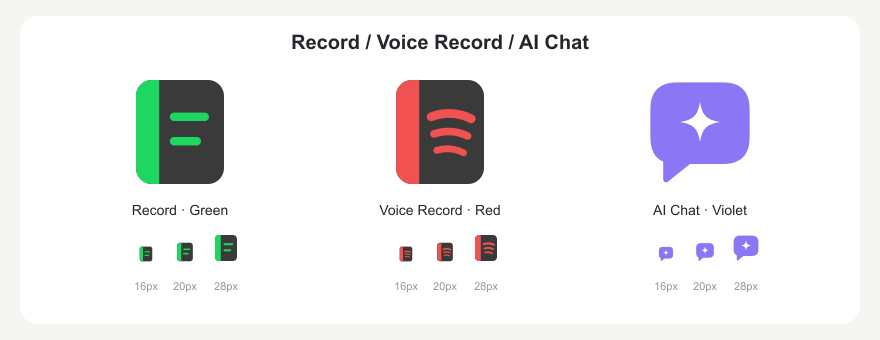
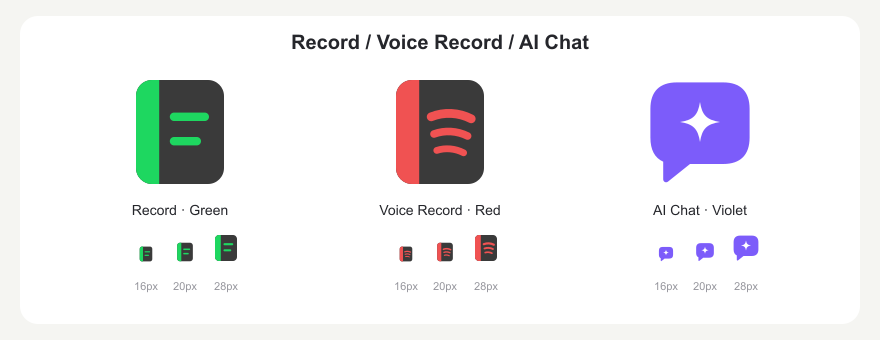
design: deepen AI conversation violet (#124)

Changed region(s): [[0.7364, 0.2353, 0.8591, 0.5294], [0.7364, 0.6765, 0.8591, 0.7647]]

diff --git a/docs/design/record-ai-chat-icons-20261013.html b/docs/design/record-ai-chat-icons-20261013.html
@@ -181,44 +181,44 @@
 
 <span>Record · 粉色</span></div></article><article><div class="hero"><svg xmlns="http://www.w3.org/2000/svg" width="112" height="112" viewBox="0 0 28 28" fill="none">
   <title>AI 对话</title>
-  <!-- Original conversation silhouette; violet matches the DSH image/video palette. -->
-  <path d="M8.2 1.6H19.8C24.12 1.6 26.4 3.88 26.4 8.2V15.4C26.4 19.72 24.12 22 19.8 22H11.5L6 26.4C5.5 26.8 4.8 26.46 4.8 25.82V21.42C2.66 20.48 1.6 18.44 1.6 15.4V8.2C1.6 3.88 3.88 1.6 8.2 1.6Z" fill="#8B76F6"/>
+  <!-- Original conversation silhouette; a slightly deeper, more saturated violet. -->
+  <path d="M8.2 1.6H19.8C24.12 1.6 26.4 3.88 26.4 8.2V15.4C26.4 19.72 24.12 22 19.8 22H11.5L6 26.4C5.5 26.8 4.8 26.46 4.8 25.82V21.42C2.66 20.48 1.6 18.44 1.6 15.4V8.2C1.6 3.88 3.88 1.6 8.2 1.6Z" fill="#7C5CFA"/>
   <path d="M14 6.5C14.5 9.8 15.7 11 19 11.5C15.7 12 14.5 13.2 14 16.5C13.5 13.2 12.3 12 9 11.5C12.3 11 13.5 9.8 14 6.5Z" fill="#FFF"/>
 </svg>
 </div><h2>AI 对话</h2><p>紫色气泡，白色星芒</p><div class="sizes"><span><svg xmlns="http://www.w3.org/2000/svg" width="16" height="16" viewBox="0 0 28 28" fill="none">
   <title>AI 对话</title>
-  <!-- Original conversation silhouette; violet matches the DSH image/video palette. -->
-  <path d="M8.2 1.6H19.8C24.12 1.6 26.4 3.88 26.4 8.2V15.4C26.4 19.72 24.12 22 19.8 22H11.5L6 26.4C5.5 26.8 4.8 26.46 4.8 25.82V21.42C2.66 20.48 1.6 18.44 1.6 15.4V8.2C1.6 3.88 3.88 1.6 8.2 1.6Z" fill="#8B76F6"/>
+  <!-- Original conversation silhouette; a slightly deeper, more saturated violet. -->
+  <path d="M8.2 1.6H19.8C24.12 1.6 26.4 3.88 26.4 8.2V15.4C26.4 19.72 24.12 22 19.8 22H11.5L6 26.4C5.5 26.8 4.8 26.46 4.8 25.82V21.42C2.66 20.48 1.6 18.44 1.6 15.4V8.2C1.6 3.88 3.88 1.6 8.2 1.6Z" fill="#7C5CFA"/>
   <path d="M14 6.5C14.5 9.8 15.7 11 19 11.5C15.7 12 14.5 13.2 14 16.5C13.5 13.2 12.3 12 9 11.5C12.3 11 13.5 9.8 14 6.5Z" fill="#FFF"/>
 </svg>
 <small>16px</small></span><span><svg xmlns="http://www.w3.org/2000/svg" width="20" height="20" viewBox="0 0 28 28" fill="none">
   <title>AI 对话</title>
-  <!-- Original conversation silhouette; violet matches the DSH image/video palette. -->
-  <path d="M8.2 1.6H19.8C24.12 1.6 26.4 3.88 26.4 8.2V15.4C26.4 19.72 24.12 22 19.8 22H11.5L6 26.4C5.5 26.8 4.8 26.46 4.8 25.82V21.42C2.66 20.48 1.6 18.44 1.6 15.4V8.2C1.6 3.88 3.88 1.6 8.2 1.6Z" fill="#8B76F6"/>
+  <!-- Original conversation silhouette; a slightly deeper, more saturated violet. -->
+  <path d="M8.2 1.6H19.8C24.12 1.6 26.4 3.88 26.4 8.2V15.4C26.4 19.72 24.12 22 19.8 22H11.5L6 26.4C5.5 26.8 4.8 26.46 4.8 25.82V21.42C2.66 20.48 1.6 18.44 1.6 15.4V8.2C1.6 3.88 3.88 1.6 8.2 1.6Z" fill="#7C5CFA"/>
   <path d="M14 6.5C14.5 9.8 15.7 11 19 11.5C15.7 12 14.5 13.2 14 16.5C13.5 13.2 12.3 12 9 11.5C12.3 11 13.5 9.8 14 6.5Z" fill="#FFF"/>
 </svg>
 <small>20px</small></span><span><svg xmlns="http://www.w3.org/2000/svg" width="28" height="28" viewBox="0 0 28 28" fill="none">
   <title>AI 对话</title>
-  <!-- Original conversation silhouette; violet matches the DSH image/video palette. -->
-  <path d="M8.2 1.6H19.8C24.12 1.6 26.4 3.88 26.4 8.2V15.4C26.4 19.72 24.12 22 19.8 22H11.5L6 26.4C5.5 26.8 4.8 26.46 4.8 25.82V21.42C2.66 20.48 1.6 18.44 1.6 15.4V8.2C1.6 3.88 3.88 1.6 8.2 1.6Z" fill="#8B76F6"/>
+  <!-- Original conversation silhouette; a slightly deeper, more saturated violet. -->
+  <path d="M8.2 1.6H19.8C24.12 1.6 26.4 3.88 26.4 8.2V15.4C26.4 19.72 24.12 22 19.8 22H11.5L6 26.4C5.5 26.8 4.8 26.46 4.8 25.82V21.42C2.66 20.48 1.6 18.44 1.6 15.4V8.2C1.6 3.88 3.88 1.6 8.2 1.6Z" fill="#7C5CFA"/>
   <path d="M14 6.5C14.5 9.8 15.7 11 19 11.5C15.7 12 14.5 13.2 14 16.5C13.5 13.2 12.3 12 9 11.5C12.3 11 13.5 9.8 14 6.5Z" fill="#FFF"/>
 </svg>
 <small>28px</small></span><span><svg xmlns="http://www.w3.org/2000/svg" width="32" height="32" viewBox="0 0 28 28" fill="none">
   <title>AI 对话</title>
-  <!-- Original conversation silhouette; violet matches the DSH image/video palette. -->
-  <path d="M8.2 1.6H19.8C24.12 1.6 26.4 3.88 26.4 8.2V15.4C26.4 19.72 24.12 22 19.8 22H11.5L6 26.4C5.5 26.8 4.8 26.46 4.8 25.82V21.42C2.66 20.48 1.6 18.44 1.6 15.4V8.2C1.6 3.88 3.88 1.6 8.2 1.6Z" fill="#8B76F6"/>
+  <!-- Original conversation silhouette; a slightly deeper, more saturated violet. -->
+  <path d="M8.2 1.6H19.8C24.12 1.6 26.4 3.88 26.4 8.2V15.4C26.4 19.72 24.12 22 19.8 22H11.5L6 26.4C5.5 26.8 4.8 26.46 4.8 25.82V21.42C2.66 20.48 1.6 18.44 1.6 15.4V8.2C1.6 3.88 3.88 1.6 8.2 1.6Z" fill="#7C5CFA"/>
   <path d="M14 6.5C14.5 9.8 15.7 11 19 11.5C15.7 12 14.5 13.2 14 16.5C13.5 13.2 12.3 12 9 11.5C12.3 11 13.5 9.8 14 6.5Z" fill="#FFF"/>
 </svg>
 <small>32px</small></span></div><div class="tab"><svg xmlns="http://www.w3.org/2000/svg" width="16" height="16" viewBox="0 0 28 28" fill="none">
   <title>AI 对话</title>
-  <!-- Original conversation silhouette; violet matches the DSH image/video palette. -->
-  <path d="M8.2 1.6H19.8C24.12 1.6 26.4 3.88 26.4 8.2V15.4C26.4 19.72 24.12 22 19.8 22H11.5L6 26.4C5.5 26.8 4.8 26.46 4.8 25.82V21.42C2.66 20.48 1.6 18.44 1.6 15.4V8.2C1.6 3.88 3.88 1.6 8.2 1.6Z" fill="#8B76F6"/>
+  <!-- Original conversation silhouette; a slightly deeper, more saturated violet. -->
+  <path d="M8.2 1.6H19.8C24.12 1.6 26.4 3.88 26.4 8.2V15.4C26.4 19.72 24.12 22 19.8 22H11.5L6 26.4C5.5 26.8 4.8 26.46 4.8 25.82V21.42C2.66 20.48 1.6 18.44 1.6 15.4V8.2C1.6 3.88 3.88 1.6 8.2 1.6Z" fill="#7C5CFA"/>
   <path d="M14 6.5C14.5 9.8 15.7 11 19 11.5C15.7 12 14.5 13.2 14 16.5C13.5 13.2 12.3 12 9 11.5C12.3 11 13.5 9.8 14 6.5Z" fill="#FFF"/>
 </svg>
 <span>AI 对话</span></div><div class="tab dark"><svg xmlns="http://www.w3.org/2000/svg" width="16" height="16" viewBox="0 0 28 28" fill="none">
   <title>AI 对话</title>
-  <!-- Original conversation silhouette; violet matches the DSH image/video palette. -->
-  <path d="M8.2 1.6H19.8C24.12 1.6 26.4 3.88 26.4 8.2V15.4C26.4 19.72 24.12 22 19.8 22H11.5L6 26.4C5.5 26.8 4.8 26.46 4.8 25.82V21.42C2.66 20.48 1.6 18.44 1.6 15.4V8.2C1.6 3.88 3.88 1.6 8.2 1.6Z" fill="#8B76F6"/>
+  <!-- Original conversation silhouette; a slightly deeper, more saturated violet. -->
+  <path d="M8.2 1.6H19.8C24.12 1.6 26.4 3.88 26.4 8.2V15.4C26.4 19.72 24.12 22 19.8 22H11.5L6 26.4C5.5 26.8 4.8 26.46 4.8 25.82V21.42C2.66 20.48 1.6 18.44 1.6 15.4V8.2C1.6 3.88 3.88 1.6 8.2 1.6Z" fill="#7C5CFA"/>
   <path d="M14 6.5C14.5 9.8 15.7 11 19 11.5C15.7 12 14.5 13.2 14 16.5C13.5 13.2 12.3 12 9 11.5C12.3 11 13.5 9.8 14 6.5Z" fill="#FFF"/>
 </svg>
 <span>AI 对话</span></div></article></div><footer>原始 SVG · 透明背景 · 28 × 28 图形网格</footer></main></html>

diff --git a/docs/design/record-voice-chat-icons-20261013.html b/docs/design/record-voice-chat-icons-20261013.html
@@ -64,26 +64,26 @@
 </svg>
 28px</span></div></article><article><div class="hero"><svg xmlns="http://www.w3.org/2000/svg" width="28" height="28" viewBox="0 0 28 28" fill="none">
   <title>AI 对话</title>
-  <!-- Original conversation silhouette; violet matches the DSH image/video palette. -->
-  <path d="M8.2 1.6H19.8C24.12 1.6 26.4 3.88 26.4 8.2V15.4C26.4 19.72 24.12 22 19.8 22H11.5L6 26.4C5.5 26.8 4.8 26.46 4.8 25.82V21.42C2.66 20.48 1.6 18.44 1.6 15.4V8.2C1.6 3.88 3.88 1.6 8.2 1.6Z" fill="#8B76F6"/>
+  <!-- Original conversation silhouette; a slightly deeper, more saturated violet. -->
+  <path d="M8.2 1.6H19.8C24.12 1.6 26.4 3.88 26.4 8.2V15.4C26.4 19.72 24.12 22 19.8 22H11.5L6 26.4C5.5 26.8 4.8 26.46 4.8 25.82V21.42C2.66 20.48 1.6 18.44 1.6 15.4V8.2C1.6 3.88 3.88 1.6 8.2 1.6Z" fill="#7C5CFA"/>
   <path d="M14 6.5C14.5 9.8 15.7 11 19 11.5C15.7 12 14.5 13.2 14 16.5C13.5 13.2 12.3 12 9 11.5C12.3 11 13.5 9.8 14 6.5Z" fill="#FFF"/>
 </svg>
 </div><h2>AI Chat · Violet</h2><div class="sizes"><span><svg xmlns="http://www.w3.org/2000/svg" width="16" height="16" viewBox="0 0 28 28" fill="none">
   <title>AI 对话</title>
-  <!-- Original conversation silhouette; violet matches the DSH image/video palette. -->
-  <path d="M8.2 1.6H19.8C24.12 1.6 26.4 3.88 26.4 8.2V15.4C26.4 19.72 24.12 22 19.8 22H11.5L6 26.4C5.5 26.8 4.8 26.46 4.8 25.82V21.42C2.66 20.48 1.6 18.44 1.6 15.4V8.2C1.6 3.88 3.88 1.6 8.2 1.6Z" fill="#8B76F6"/>
+  <!-- Original conversation silhouette; a slightly deeper, more saturated violet. -->
+  <path d="M8.2 1.6H19.8C24.12 1.6 26.4 3.88 26.4 8.2V15.4C26.4 19.72 24.12 22 19.8 22H11.5L6 26.4C5.5 26.8 4.8 26.46 4.8 25.82V21.42C2.66 20.48 1.6 18.44 1.6 15.4V8.2C1.6 3.88 3.88 1.6 8.2 1.6Z" fill="#7C5CFA"/>
   <path d="M14 6.5C14.5 9.8 15.7 11 19 11.5C15.7 12 14.5 13.2 14 16.5C13.5 13.2 12.3 12 9 11.5C12.3 11 13.5 9.8 14 6.5Z" fill="#FFF"/>
 </svg>
 16px</span><span><svg xmlns="http://www.w3.org/2000/svg" width="20" height="20" viewBox="0 0 28 28" fill="none">
   <title>AI 对话</title>
-  <!-- Original conversation silhouette; violet matches the DSH image/video palette. -->
-  <path d="M8.2 1.6H19.8C24.12 1.6 26.4 3.88 26.4 8.2V15.4C26.4 19.72 24.12 22 19.8 22H11.5L6 26.4C5.5 26.8 4.8 26.46 4.8 25.82V21.42C2.66 20.48 1.6 18.44 1.6 15.4V8.2C1.6 3.88 3.88 1.6 8.2 1.6Z" fill="#8B76F6"/>
+  <!-- Original conversation silhouette; a slightly deeper, more saturated violet. -->
+  <path d="M8.2 1.6H19.8C24.12 1.6 26.4 3.88 26.4 8.2V15.4C26.4 19.72 24.12 22 19.8 22H11.5L6 26.4C5.5 26.8 4.8 26.46 4.8 25.82V21.42C2.66 20.48 1.6 18.44 1.6 15.4V8.2C1.6 3.88 3.88 1.6 8.2 1.6Z" fill="#7C5CFA"/>
   <path d="M14 6.5C14.5 9.8 15.7 11 19 11.5C15.7 12 14.5 13.2 14 16.5C13.5 13.2 12.3 12 9 11.5C12.3 11 13.5 9.8 14 6.5Z" fill="#FFF"/>
 </svg>
 20px</span><span><svg xmlns="http://www.w3.org/2000/svg" width="28" height="28" viewBox="0 0 28 28" fill="none">
   <title>AI 对话</title>
-  <!-- Original conversation silhouette; violet matches the DSH image/video palette. -->
-  <path d="M8.2 1.6H19.8C24.12 1.6 26.4 3.88 26.4 8.2V15.4C26.4 19.72 24.12 22 19.8 22H11.5L6 26.4C5.5 26.8 4.8 26.46 4.8 25.82V21.42C2.66 20.48 1.6 18.44 1.6 15.4V8.2C1.6 3.88 3.88 1.6 8.2 1.6Z" fill="#8B76F6"/>
+  <!-- Original conversation silhouette; a slightly deeper, more saturated violet. -->
+  <path d="M8.2 1.6H19.8C24.12 1.6 26.4 3.88 26.4 8.2V15.4C26.4 19.72 24.12 22 19.8 22H11.5L6 26.4C5.5 26.8 4.8 26.46 4.8 25.82V21.42C2.66 20.48 1.6 18.44 1.6 15.4V8.2C1.6 3.88 3.88 1.6 8.2 1.6Z" fill="#7C5CFA"/>
   <path d="M14 6.5C14.5 9.8 15.7 11 19 11.5C15.7 12 14.5 13.2 14 16.5C13.5 13.2 12.3 12 9 11.5C12.3 11 13.5 9.8 14 6.5Z" fill="#FFF"/>
 </svg>
 28px</span></div></article></main>

diff --git a/docs/requirements/project-content-tabs-execution.md b/docs/requirements/project-content-tabs-execution.md
@@ -40,6 +40,7 @@
 - 实现：`ContentTypeIcon` 共用三份 SVG，所有已有 Record／Session 身份图标统一接入；语音记录使用红色三条声音弧线，不再使用独立 Mic／Volume2。新开 Tab 从原生 Record 获取 `isVoice`，布局存储和去重保留标记；旧保存 Tab 通过已加载的 Project Record 身份补充呈现，不额外请求原生接口。AI 对话入口、会话列表、设置分类与 Tab 使用紫色气泡。
 - 验证：元数据与原生来源三个测试文件 50 项；侧栏／引用／会话／记录／布局九文件 90 项；设置两项；恢复工作区 11 项，均通过。恢复补丁后的布局 41 项再次通过，包含在上述九文件计数中，未累加。新恢复用例修正了 Vite 内联 SVG 的 URL 断言；TypeScript 修复可空布局引用后，最终 `npm run build`、UI standards 和 bundle boundaries 通过，主脚本 235 KiB／250 KiB。普通 Record 改回绿色只更新 SVG 与预览，复用逻辑测试；28px XML／16px 配色与透明背景、静态 PNG 目视确认完成。
 - 主 agent Standards／Spec 自查无剩余发现，未调用 review 子 agent；原有打开、保存、拖拽和文件系统图标策略保持。`check:portable-paths` 被仓库既有研究／验证文档的绝对路径阻挡；本包未新增此类路径（执行文档当前与 HEAD 均三项）。本包提交阶段成果，不发布或关闭父 Issue。
+- AI 对话配色微调：按用户反馈改为更深、更饱和的紫色 `#7C5CFA`，形状与普通／语音记录配色不变；同步主 SVG 和当前预览，仅静态配色改动，复用已通过的接入测试。
 - 预览：`docs/design/record-voice-chat-icons-20261013.html`／`.png` 为最终绿色普通记录、红色语音记录与紫色 AI 对话；早期麦克风及两条／三条弧线预览保留为设计过程。
 
 ### 2026-10-13 Record／AI 对话彩色图标设计包（#124）
